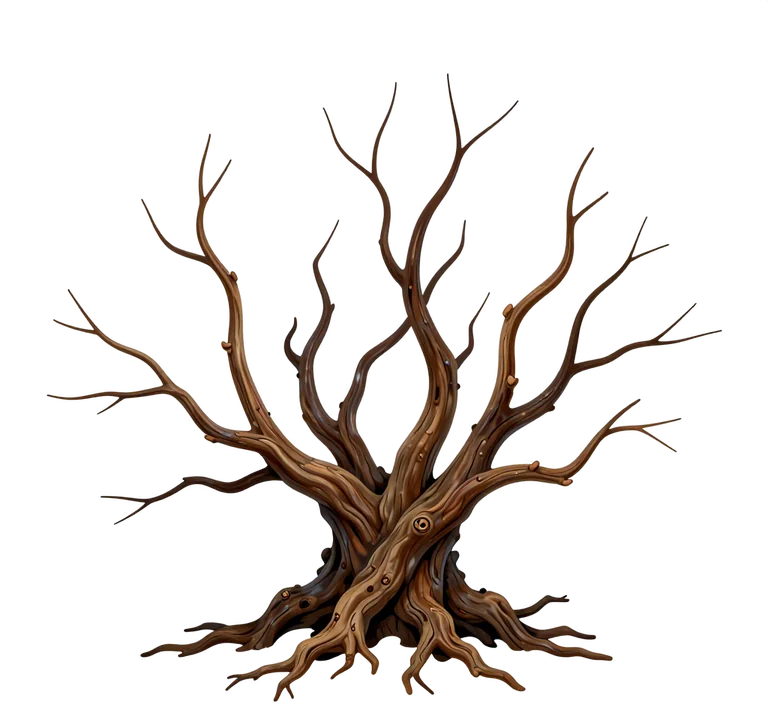
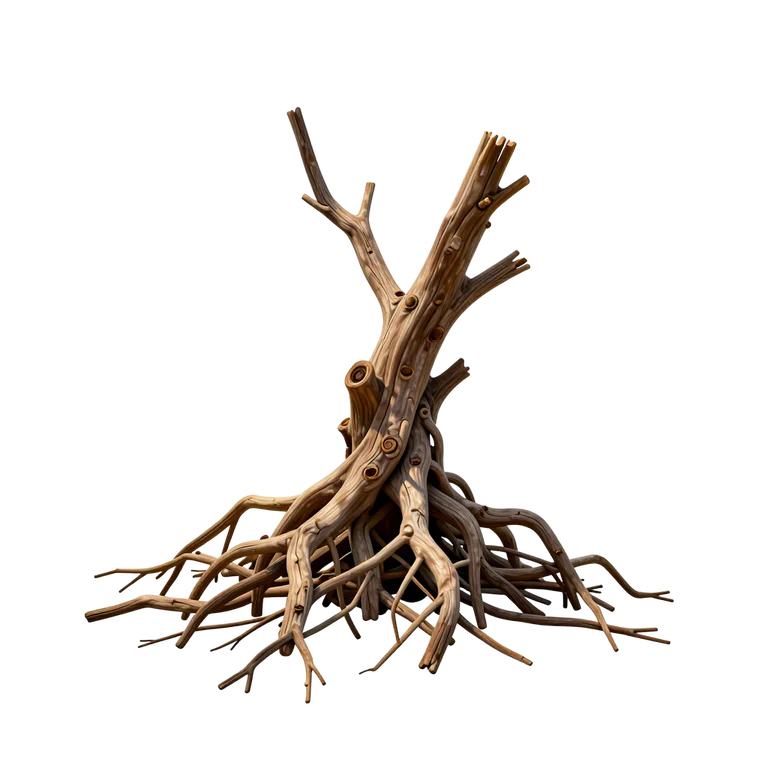
Paint zebrafish, red cobra guppies, fry, juvenile shrimp and rotala
Bring in the second art batch: zebrafish male and female, the red cobra
strain, a shared fry image for guppy and zebrafish juveniles, juvenile
cherry shrimp, the redrawn spider wood and the tuxedo redo. Rotala now
draws from painted art, scaled by biomass and tinted when melting or
covered in algae. Every fish form now has painted art.

Claude-Session: https://claude.ai/code/session_01KsbS4vLZbfPytVNgNzSz4q

diff --git a/src/render/painted.ts b/src/render/painted.ts
@@ -25,39 +25,47 @@ interface PaintedSpec {
 const GUPPY_MALE_BODY = { x: 0.14, y: 0.02, rx: 0.2, ry: 0.11 };
 const GUPPY_FEMALE_BODY = { x: 0.12, y: 0.04, rx: 0.22, ry: 0.14 };
 const SHRIMP_BODY = { x: 0.08, y: -0.02, rx: 0.25, ry: 0.12 };
+const ZEBRA_BODY = { x: 0.1, y: 0.0, rx: 0.3, ry: 0.11 };
+const FRY_BODY = { x: 0.12, y: 0.0, rx: 0.25, ry: 0.1 };
 
 export const PAINTED: Record<string, PaintedSpec> = {
   'guppy-male-bluegrass': { file: 'fish/guppy-male-bluegrass.webp', tail: 0.34, swing: 0.13, body: GUPPY_MALE_BODY },
   'guppy-male-cobra': { file: 'fish/guppy-male-cobra.webp', tail: 0.3, swing: 0.13, body: GUPPY_MALE_BODY },
   'guppy-male-albino-red': { file: 'fish/guppy-male-albino-red.webp', tail: 0.32, swing: 0.13, body: GUPPY_MALE_BODY },
   'guppy-male-tuxedo': { file: 'fish/guppy-male-tuxedo.webp', tail: 0.32, swing: 0.13, body: GUPPY_MALE_BODY },
+  'guppy-male-redcobra': { file: 'fish/guppy-male-redcobra.webp', tail: 0.32, swing: 0.13, body: GUPPY_MALE_BODY },
+  'guppy-fry': { file: 'fish/guppy-fry.webp', tail: 0.24, swing: 0.12, body: FRY_BODY },
+  'zebrafish-male': { file: 'fish/zebrafish-male.webp', tail: 0.2, swing: 0.1, body: ZEBRA_BODY },
+  'zebrafish-female': { file: 'fish/zebrafish-female.webp', tail: 0.2, swing: 0.09, body: ZEBRA_BODY },
   'guppy-female-base': { file: 'fish/guppy-female-base.webp', tail: 0.26, swing: 0.1, body: GUPPY_FEMALE_BODY },
   'guppy-female-pregnant': { file: 'fish/guppy-female-pregnant.webp', tail: 0.24, swing: 0.09, body: GUPPY_FEMALE_BODY },
   'shrimp-cherry-male': { file: 'shrimp/shrimp-cherry-male.webp', tail: 0.18, swing: 0.03, body: SHRIMP_BODY },
   'shrimp-cherry-female': { file: 'shrimp/shrimp-cherry-female.webp', tail: 0.18, swing: 0.03, body: SHRIMP_BODY },
   'shrimp-cherry-berried': { file: 'shrimp/shrimp-cherry-berried.webp', tail: 0.18, swing: 0.03, body: SHRIMP_BODY, eggs: true },
+  'shrimp-cherry-juvenile': { file: 'shrimp/shrimp-cherry-juvenile.webp', tail: 0.18, swing: 0.03, body: SHRIMP_BODY },
 };
 
-/** 品系名稱 → 素材。沒列到的品系（例如紅蛇王）用程式繪製版。 */
+/** 品系名稱 → 素材。沒列到的品系用程式繪製版。 */
 const GUPPY_MALE_ART: Record<string, string> = {
   藍草: 'guppy-male-bluegrass',
   黃金蛇王: 'guppy-male-cobra',
   白子全紅: 'guppy-male-albino-red',
   藍尾禮服: 'guppy-male-tuxedo',
+  紅蛇王: 'guppy-male-redcobra',
 };
 
-/** 這條魚該用哪張精繪圖；沒有就回傳 null（仔魚、斑馬魚、還沒畫的品系）。 */
+/** 這條魚該用哪張精繪圖；沒有就回傳 null（還沒畫的品系）。 */
 export function paintedKey(species: FishSpeciesId, form: FishForm, variant: number, gravid: boolean): string | null {
-  if (form === 'juvenile') return null;
-  if (species === 'guppy') {
-    if (form === 'female') return gravid ? 'guppy-female-pregnant' : 'guppy-female-base';
-    return GUPPY_MALE_ART[guppyLook(variant).strain] ?? null;
-  }
   if (species === 'cherry_shrimp') {
+    if (form === 'juvenile') return 'shrimp-cherry-juvenile';
     if (form === 'female') return gravid ? 'shrimp-cherry-berried' : 'shrimp-cherry-female';
     return 'shrimp-cherry-male';
   }
-  return null;
+  // 孔雀魚和斑馬魚的仔魚都是半透明的小魚，共用一張
+  if (form === 'juvenile') return 'guppy-fry';
+  if (species === 'zebrafish') return form === 'female' ? 'zebrafish-female' : 'zebrafish-male';
+  if (form === 'female') return gravid ? 'guppy-female-pregnant' : 'guppy-female-base';
+  return GUPPY_MALE_ART[guppyLook(variant).strain] ?? null;
 }
 
 /** 背景與造景（青龍石、沉木）：不做網格，由 scenery.ts 畫進場景的 Canvas。 */
@@ -72,6 +80,7 @@ export const SCENERY: Record<string, string> = {
   'wood-1': 'scape/wood-spider-1.webp',
   'wood-2': 'scape/wood-spider-2.webp',
   'wood-3': 'scape/wood-spider-3.webp',
+  'plant-rotala': 'scape/plant-rotala.webp',
 };
 
 const textures = new Map<string, Texture>();

diff --git a/src/render/scenery.ts b/src/render/scenery.ts
@@ -227,7 +227,7 @@ export function paintDriftwood(b: TankBounds, hs: number): Texture {
   const wood = sceneryImage('wood-1');
   if (wood) {
     // 精繪的杜鵑根：中景，比前景石頭多一點水的藍色
-    drawSceneryArt(ctx, wood, b.width * 0.42, oy - 4 * hs, 340 * hs, 0.14);
+    drawSceneryArt(ctx, wood, b.width * 0.42, oy - 4 * hs, 320 * hs, 0.14);
     return canvasTexture(canvas, false);
   }
   ctx.lineJoin = 'round';
@@ -493,13 +493,46 @@ export function paintPlant(plant: Plant, hs: number): PlantPainting {
   const high = sp.lightType === 'high';
   const full = high ? (110 + size * 150) * hs : (60 + size * 30) * hs;
   const W = (high ? 220 : 160) * hs * (0.8 + size * 0.3);
-  const H = full + 30 * hs;
+  const H = full * 1.12 + 30 * hs;
   const { canvas, ctx } = makeCanvas(W, H);
   const ax = W / 2;
   const ay = H - 6 * hs;
   ctx.translate(ax, ay);
   ctx.lineCap = 'round';
   const rand = seeded(plant.id * 97 + 13);
+
+  const art = sceneryImage(`plant-${plant.species}`);
+  if (art) {
+    // 精繪水草：依生物量決定高度，溶葉偏黃褐、長藻變暗並有斑點
+    const { w: iw, h: ih } = imageSize(art);
+    const dh = full * 1.1;
+    const dw = Math.min(W, (iw / ih) * dh);
+    const { canvas: tmp, ctx: t } = makeCanvas(dw, dh);
+    t.drawImage(art, 0, 0, dw, dh);
+    t.globalCompositeOperation = 'source-atop';
+    if (melting) {
+      t.fillStyle = 'rgba(184,168,72,0.6)';
+      t.fillRect(0, 0, dw, dh);
+    }
+    if (algae > 0.15) {
+      t.fillStyle = `rgba(60,72,40,${Math.min(0.6, algae * 0.6)})`;
+      t.fillRect(0, 0, dw, dh);
+      t.fillStyle = `rgba(26,42,20,${Math.min(0.9, algae)})`;
+      for (let i = 0; i < 40 * algae; i++) {
+        t.beginPath();
+        t.arc(rand() * dw, rand() * dh, (1.5 + rand() * 2) * hs, 0, Math.PI * 2);
+        t.fill();
+      }
+    }
+    const shade = t.createLinearGradient(0, 0, 0, dh);
+    shade.addColorStop(0, 'rgba(200,245,255,0.08)');
+    shade.addColorStop(0.6, 'rgba(20,80,90,0)');
+    shade.addColorStop(1, 'rgba(5,30,30,0.45)');
+    t.fillStyle = shade;
+    t.fillRect(0, 0, dw, dh);
+    ctx.drawImage(tmp, -dw / 2, -dh * 0.98);
+    return { texture: canvasTexture(canvas), anchorX: ax, anchorY: ay };
+  }
 
   if (high) {
     const stems = Math.max(1, Math.round(1 + size * 2.2));

diff --git a/src/render/painted.test.ts b/src/render/painted.test.ts
@@ -17,7 +17,7 @@ describe('精繪素材對應', () => {
     const variant = (strain: string) => GUPPY_LOOKS.findIndex((l) => l.strain === strain);
     expect(paintedKey('guppy', 'male', variant('藍草'), false)).toBe('guppy-male-bluegrass');
     expect(paintedKey('guppy', 'male', variant('黃金蛇王'), false)).toBe('guppy-male-cobra');
-    expect(paintedKey('guppy', 'male', variant('紅蛇王'), false)).toBeNull();
+    expect(paintedKey('guppy', 'male', variant('紅蛇王'), false)).toBe('guppy-male-redcobra');
   });
 
   it('母魚懷孕換成大肚子的圖，母蝦抱卵換成抱蛋的圖', () => {
@@ -27,9 +27,12 @@ describe('精繪素材對應', () => {
     expect(paintedKey('cherry_shrimp', 'male', 0, false)).toBe('shrimp-cherry-male');
   });
 
-  it('仔魚和還沒有素材的魚種用程式繪製', () => {
-    expect(paintedKey('guppy', 'juvenile', 0, false)).toBeNull();
-    expect(paintedKey('zebrafish', 'male', 0, false)).toBeNull();
+  it('仔魚、仔蝦、斑馬魚都有自己的圖', () => {
+    expect(paintedKey('guppy', 'juvenile', 0, false)).toBe('guppy-fry');
+    expect(paintedKey('zebrafish', 'juvenile', 0, false)).toBe('guppy-fry');
+    expect(paintedKey('cherry_shrimp', 'juvenile', 0, false)).toBe('shrimp-cherry-juvenile');
+    expect(paintedKey('zebrafish', 'male', 0, false)).toBe('zebrafish-male');
+    expect(paintedKey('zebrafish', 'female', 0, true)).toBe('zebrafish-female');
   });
 
   it('素材沒載入時拿不到貼圖（畫面會退回程式繪製版）', () => {
